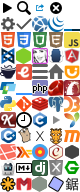
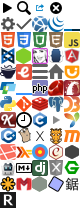
Add RethinkDB documentation

diff --git a/assets/stylesheets/global/_icons.scss b/assets/stylesheets/global/_icons.scss
@@ -4,7 +4,7 @@
   width: 1rem;
   height: 1rem;
   background-image: image-url('icons.png');
-  background-size: 5rem 12rem;
+  background-size: 5rem 13rem;
 }
 
 @media (-webkit-min-device-pixel-ratio: 1.5), (min-resolution: 144dpi) {
@@ -72,3 +72,4 @@
 ._icon-mongoose:before      { background-position: -2rem -11rem; }
 ._icon-phpunit:before       { background-position: -3rem -11rem; }
 ._icon-nokogiri:before      { background-position: -4rem -11rem; }
+._icon-rethinkdb:before     { background-position: 0 -12rem; }

diff --git a/assets/stylesheets/application.css.scss b/assets/stylesheets/application.css.scss
@@ -59,6 +59,7 @@
         'pages/rdoc',
         'pages/redis',
         'pages/requirejs',
+        'pages/rethinkdb',
         'pages/rfc',
         'pages/sinon',
         'pages/sphinx',

diff --git a/assets/stylesheets/pages/_rethinkdb.scss b/assets/stylesheets/pages/_rethinkdb.scss
@@ -1,0 +1,9 @@
+._rethinkdb {
+  > h2 { @extend %block-heading; }
+  code { @extend %label; }
+
+  .api_command_illustration {
+    float: right;
+    margin: 0 0 1em 1em;
+  }
+}

diff --git a/lib/docs/filters/rethinkdb/clean_html.rb b/lib/docs/filters/rethinkdb/clean_html.rb
@@ -1,0 +1,38 @@
+module Docs
+  class Rethinkdb
+    class CleanHtmlFilter < Filter
+      def call
+        if root_page?
+          doc.inner_html = '<h1>ReQL command reference</h1>'
+          return doc
+        end
+
+        css('#api-header').each do |node|
+          node.replace(node.at_css('h1'))
+        end
+
+        css('.linksbox-container').remove
+
+        css('.highlight').each do |node|
+          node.before(node.children).remove
+        end
+
+        css('.command-body').each do |node|
+          node.name = 'pre'
+          node.inner_html = node.inner_html.gsub('</p>', "</p>\n")
+        end
+
+        css('pre').each do |node|
+          node.content = node.content
+        end
+
+        css('h1').each do |node|
+          next if node['class'].to_s.include?('title')
+          node.name = 'h2'
+        end
+
+        doc
+      end
+    end
+  end
+end

diff --git a/lib/docs/scrapers/rethinkdb.rb b/lib/docs/scrapers/rethinkdb.rb
@@ -1,0 +1,22 @@
+module Docs
+  class Rethinkdb < UrlScraper
+    self.name = 'RethinkDB'
+    self.type = 'rethinkdb'
+    self.version = '1.15.2'
+    self.base_url = 'http://rethinkdb.com/api/javascript/'
+
+    html_filters.push 'rethinkdb/entries', 'rethinkdb/clean_html'
+
+    options[:trailing_slash] = false
+    options[:container] = '.container .section'
+
+    options[:fix_urls] = ->(url) do
+      url.sub! %r{rethinkdb.com/api/(?!javascript|ruby|python)}, 'rethinkdb.com/api/javascript/'
+    end
+
+    options[:attribution] = <<-HTML
+      &copy; RethinkDB contributors<br>
+      Licensed under the Creative Commons Attribution-ShareAlike 3.0 Unported License.
+    HTML
+  end
+end

diff --git a/lib/docs/filters/rethinkdb/entries.rb b/lib/docs/filters/rethinkdb/entries.rb
@@ -1,0 +1,15 @@
+module Docs
+  class Rethinkdb
+    class EntriesFilter < Docs::EntriesFilter
+      def get_name
+        at_css('.title').content.remove('ReQL command:')
+      end
+
+      def get_type
+        link = at_css('a[href^="https://github.com/rethinkdb/docs/blob/master/api/javascript/"]')
+        dir = link['href'][/javascript\/([^\/]+)/, 1]
+        dir.titleize.gsub('Rql', 'ReQL').gsub('And', 'and')
+      end
+    end
+  end
+end
